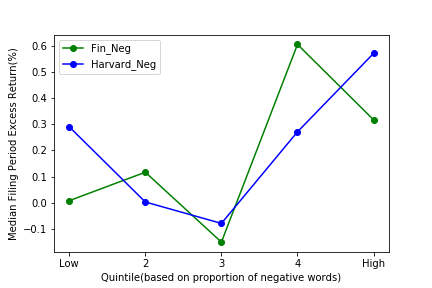
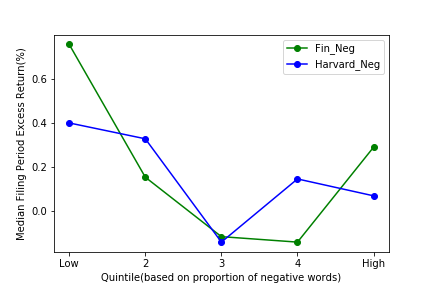
update idf figure1

diff --git a/filing_return.py b/filing_return.py
@@ -93,6 +93,11 @@ def compare_plot(master_result, harvard_result, name):
     _ = plt.savefig(name + '_result.png')
 
 if __name__ == '__main__':
+    master_dic = pd.read_csv('LoughranMcDonald_MasterDictionary_2018.csv')
+    master_neg_list = list(master_dic['Word'][master_dic['Negative'] > 0])
+    harvard_dic = pd.read_csv('Harvard_Dictionary.csv')
+    harvard_neg_list = list(harvard_dic['Entry'][harvard_dic['Negativ'] == 'Negativ'])
+
     print('Getting Parser Data...')
     master_data = clean_parser('Parser.csv')
     harvard_data = clean_parser('Parser_Harvard.csv')
@@ -105,14 +110,17 @@ if __name__ == '__main__':
   
     idf_weight = pd.read_csv('idf_weight.csv')
     idf_weight_hd = pd.read_csv('idf_weight_harvard.csv')
-    parser = pd.read_csv('Parser.csv')
-    parser_hd = pd.read_csv('Parser_Harvard.csv')
-    idf_weight['%neg'] = idf_weight.apply(lambda x: x.sum(), axis = 1)
-    idf_weight_new = pd.concat([idf_weight[['%neg']], parser[['number of words,']]], axis = 1)
-    idf_weight_new['%negative'] = idf_weight_new['%neg'] / idf_weight_new['number of words,'] * 100   
-    idf_weight_hd['%neg'] = idf_weight_hd.apply(lambda x: x.sum(), axis = 1)
-    idf_weight_new_hd = pd.concat([idf_weight_hd[['%neg']], parser_hd[['number of words,']]], axis = 1)
-    idf_weight_new_hd['%negative'] = idf_weight_new_hd['%neg'] / idf_weight_new_hd['number of words,'] * 100
+    #parser = pd.read_csv('Parser.csv')
+    #parser_hd = pd.read_csv('Parser_Harvard.csv')
+    idf_weight['%word'] = idf_weight.apply(lambda x: x.sum(), axis = 1)
+    idf_weight['%neg'] = idf_weight[master_neg_list].apply(lambda x: x.sum(), axis = 1)   
+    idf_weight_new = idf_weight[['%word','%neg']]
+    idf_weight_new['%negative'] = idf_weight_new['%neg'] / idf_weight_new['%word'] 
+    
+    idf_weight_hd['%word'] = idf_weight_hd.apply(lambda x: x.sum(), axis = 1)
+    idf_weight_hd['%neg'] = idf_weight_hd[[i for i in harvard_neg_list if i in idf_weight_hd.columns]].apply(lambda x: x.sum(), axis = 1)
+    idf_weight_new_hd = idf_weight_hd[['%word','%neg']]
+    idf_weight_new_hd['%negative'] = idf_weight_new_hd['%neg'] / idf_weight_new_hd['%word'] 
     
 
     print("Getting Return Data...")
@@ -130,4 +138,25 @@ if __name__ == '__main__':
     compare_plot(master_result, harvard_result, 'proportion')
     compare_plot(master_result_idf, harvard_result_idf, 'TD-idf')
     
+
+
+
+
+
+
+
+
+
+
+
+
+
+
+
+
+
+
+
+
+
 
